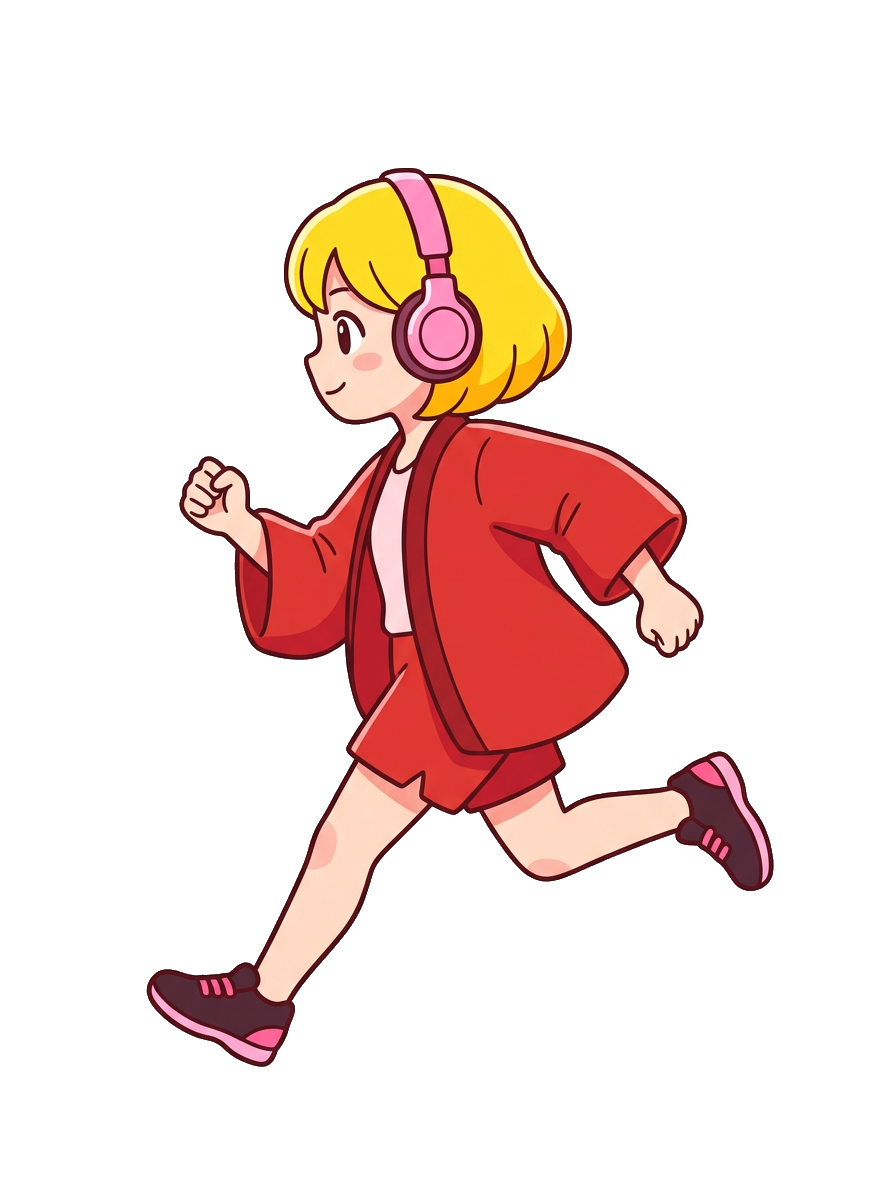
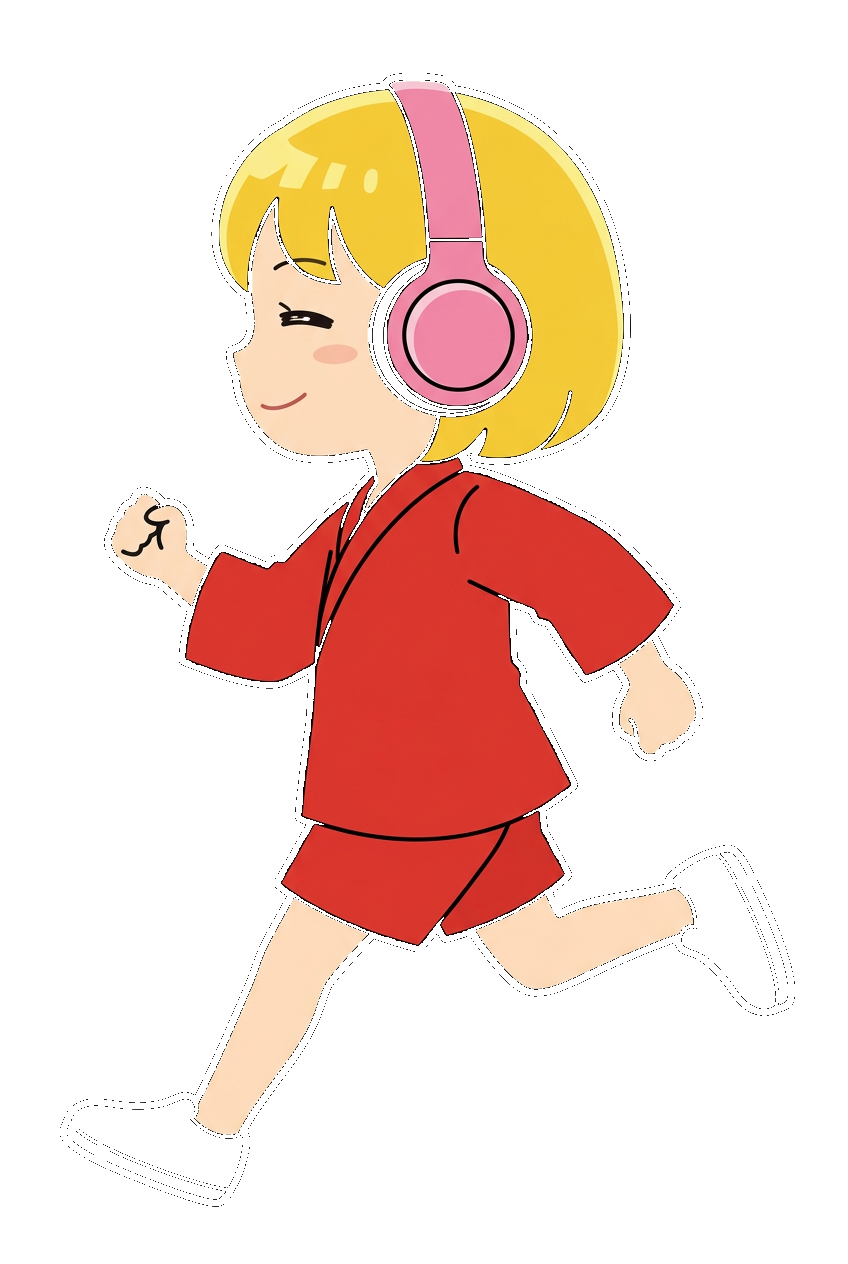
feat(sprite): 14 枚のキャラクタースプライトをデザイン統一で再生成 (#10)
* feat(sprite): 14 枚のキャラクタースプライトをデザイン統一で再生成

【背景】
Phase 5-A 拡張時に追加 sprite を順次生成した結果、14 枚で
別キャラ 4-5 名分のデザインが混在していた:
- 服装: 赤ショート着物 / 赤ハッピ + ピンクベルト + 白菱形ボタン /
  赤着物 + 青帯 / 赤和柄雲文様 など
- 足元: 裸足 / ピンク靴 / 白靴 が混在
- 顔つき: 細目 / 大目 / チーク有無 がバラバラ

【統一仕様 (PR #10)】
nano-banana (Gemini 3.1 Flash Image) を統一プロンプトで一括再生成:
- 黄色のショートヘア (前髪あり、丸い輪郭)
- ピンクのオーバーイヤー型ヘッドフォン
- 赤い和風ジャケット (朱赤 #e33535、ハッピ風、装飾なし)
- 赤い短パン (ジャケット同色)
- 白いスニーカー (運動靴、装飾なし)
- 細い線で描かれた目 + 軽く微笑む口、ごく薄いチーク

【scripts/remove-checker-bg.py 改良】
AI が暗いチェッカー柄を描いた場合に外周透明帯と分離されて
透明化失敗していた問題を修正:
- 既透明ピクセル + 純黒チェッカー (RGB<16) + 明灰チェッカー (RGB>=80)
  を全て bg_candidate に含めて連結性を確保
- 中間色 (16-79) は除外し、キャラ内シャドウ・瞳を保護
- side-left-idle.png は旧スクリプトで 0% 透明化失敗 → 改良版で 83.9%

CLAUDE.md のスプライト数表記 (12 → 14) と「裸足」既知課題の
記述を修正。

* docs(sprite): remove-checker-bg コメントと実装の不一致を修正

codex review 指摘 (Low): コメント「任意の濃さのグレー全て」と
実装 (中間色 16-79 を除外) が不一致だった点を整合化。

---------

Changed region(s): [[0.1226, 0.0617, 0.8892, 0.925]]

diff --git a/scripts/remove-checker-bg.py b/scripts/remove-checker-bg.py
@@ -25,9 +25,20 @@ def remove_checker_bg(path: Path) -> tuple[int, int]:
     r = arr[:, :, 0].astype(int)
     g = arr[:, :, 1].astype(int)
     b = arr[:, :, 2].astype(int)
+    a = arr[:, :, 3].astype(int)
+    # チェッカー柄は「明るいグレー + 暗いグレー」のペア。AI 生成画像は次のいずれかになる:
+    # 1) 外周透明 + 内側に明るいチェッカー柄
+    # 2) 外周透明 + 内側に暗いチェッカー柄（旧スクリプトでは検出不可）
+    # 3) 外周まで全部不透明な明るい / 暗いチェッカー柄
+    # bg_candidate に含めるピクセル: 既透明 (alpha<128) | 純黒チェッカー (RGB<16) | 明灰チェッカー (RGB>=80)。
+    # 中間色 (16-79) は除外: キャラ内シャドウ・瞳の濃い色を背景候補にしないため。
+    # キャラ内の純黒アウトラインも is_dark_check=True になるが、4 隅起点の連結成分判定で
+    # キャラ周辺の肌色 (R>>G>B → is_gray=False) がバリアとなり、外周連結成分から分離されて保護される。
     is_gray = (np.abs(r - g) < 30) & (np.abs(g - b) < 30) & (np.abs(r - b) < 30)
-    is_bright = r >= 180
-    bg_candidate = is_gray & is_bright
+    is_already_transparent = a < 128
+    is_dark_check = (r < 16) & (g < 16) & (b < 16)
+    is_light_gray = is_gray & (r >= 80)
+    bg_candidate = is_already_transparent | is_dark_check | is_light_gray
 
     labeled, _ = label(bg_candidate)
     corner_labels: set[int] = set()

diff --git a/CLAUDE.md b/CLAUDE.md
@@ -66,7 +66,7 @@ NG（ブランドガイドライン由来）:
 - ロゴ変形・指定色外使用
 - ドロップシャドウ装飾の濫用
 
-## キャラクタースプライト（12 種）
+## キャラクタースプライト（14 種）
 
 | | idle | run | jump | crouch |
 |---|---|---|---|---|
@@ -77,9 +77,7 @@ NG（ブランドガイドライン由来）:
 
 front/back の crouch は side で代用。
 
-すべて nano-banana (Gemini 3.1 Flash Image) で生成し、`scripts/remove-checker-bg.py` で完全透明化済み。
-
-**既知の品質課題**: 追加 sprite 群でキャラが裸足（プロンプトに `shoes` 含めず）。Phase 5-F で再生成予定。
+すべて nano-banana (Gemini 3.1 Flash Image) で統一プロンプト（赤い和風ジャケット + 赤い短パン + 白いスニーカー + 黄色ショート + ピンクヘッドフォン + 細目笑顔）で生成、`scripts/remove-checker-bg.py` で完全透明化済み。Phase 5-C 直前にデザイン整合化（PR #10）で 14 枚を一括再生成。
 
 ## 物理・操作パラメータ（`src/config/gameConfig.ts`）
 
